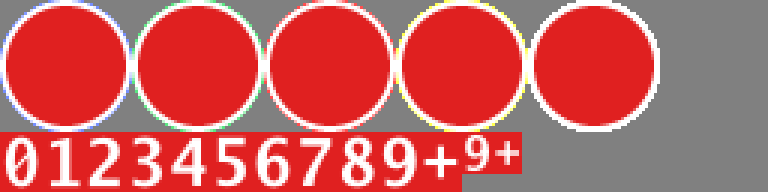
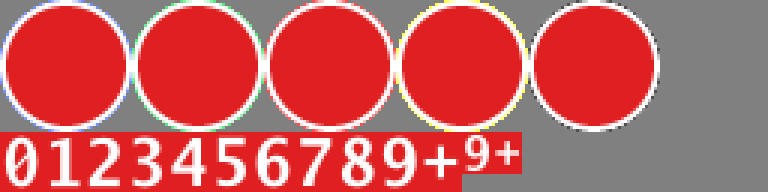
Make a key with no status black; draw the Inbox key on the Gmail envelope
A no-status key was white, which the Inbox key cannot use as a blank
background. The golden images for the round and pips are regenerated.

diff --git a/inbox/src/summary.js b/inbox/src/summary.js
@@ -1,8 +1,12 @@
 // The renderer the daemon uses until task 0066 adds the channel keys: one
-// `inbox` key that shows the total unseen count. A renderer has
+// `inbox` key that shows the total unseen count, on the Gmail envelope.
+// The key has no status, so it is black, and a count of 0 shows no pip. A renderer has
 //   plan({ unseen, active }) -> the setLayerKey payloads to send now
 //   reset()                  -> forget what it sent (called on every connect)
 // where `unseen` is Store.unseen() and `active` is the open layer's id or null.
+
+// A picture under the assets directory (see `--assets-dir`).
+export const INBOX_ICON = 'gmail.png';
 
 export function createSummaryRenderer({ slot } = {}) {
   let sent = null;
@@ -12,7 +16,7 @@ export function createSummaryRenderer({ slot } = {}) {
     },
     plan({ unseen }) {
       const count = unseen.reduce((sum, row) => sum + row.count, 0);
-      const key = { id: 'inbox', status: count > 0 ? 'WARN' : '', count };
+      const key = { id: 'inbox', status: '', count, iconRef: INBOX_ICON };
       if (slot !== undefined) key.slot = slot;
       const json = JSON.stringify(key);
       if (json === sent) return [];

diff --git a/inbox/test/daemon.test.js b/inbox/test/daemon.test.js
@@ -49,7 +49,8 @@ test('TestChangeReachesPad', async (t) => {
   await waitFor(() => inboxCounts(server).includes(1), 1000, 'the new count');
   assert.ok(Date.now() - started < 1000);
   const last = server.received.at(-1).setLayerKey;
-  assert.equal(last.status, 'WARN');
+  assert.equal(last.status, '');
+  assert.equal(last.iconRef, 'gmail.png');
 });
 
 test('TestIdlePollIsCheap', async (t) => {

diff --git a/driver/layers/render.go b/driver/layers/render.go
@@ -20,7 +20,7 @@ const (
 	ColorDone    uint16 = 0x16C9 // green #12D84A
 	ColorError   uint16 = 0xF800 // red
 	ColorWarn    uint16 = 0xFFE0 // yellow
-	ColorNone    uint16 = 0xFFFF // white: no status
+	ColorNone    uint16 = 0x0000 // black: no status
 	// ColorUp is the dark background behind the shift icon.
 	ColorUp uint16 = 0x2104 // #202020
 )

diff --git a/driver/README.md b/driver/README.md
@@ -216,7 +216,7 @@ the poller used is not read any more; delete it.
 | `DONE` | green `#12D84A` | `0x16C9` |
 | `ERROR` | red | `0xF800` |
 | `WARN` | yellow | `0xFFE0` |
-| empty | white | `0xFFFF` |
+| empty | black | `0x0000` |
 
 A file with seven keys, six children, a grandchild, an unknown status, a
 duplicate `id`, or an `active` that names a key with no children is rejected.
